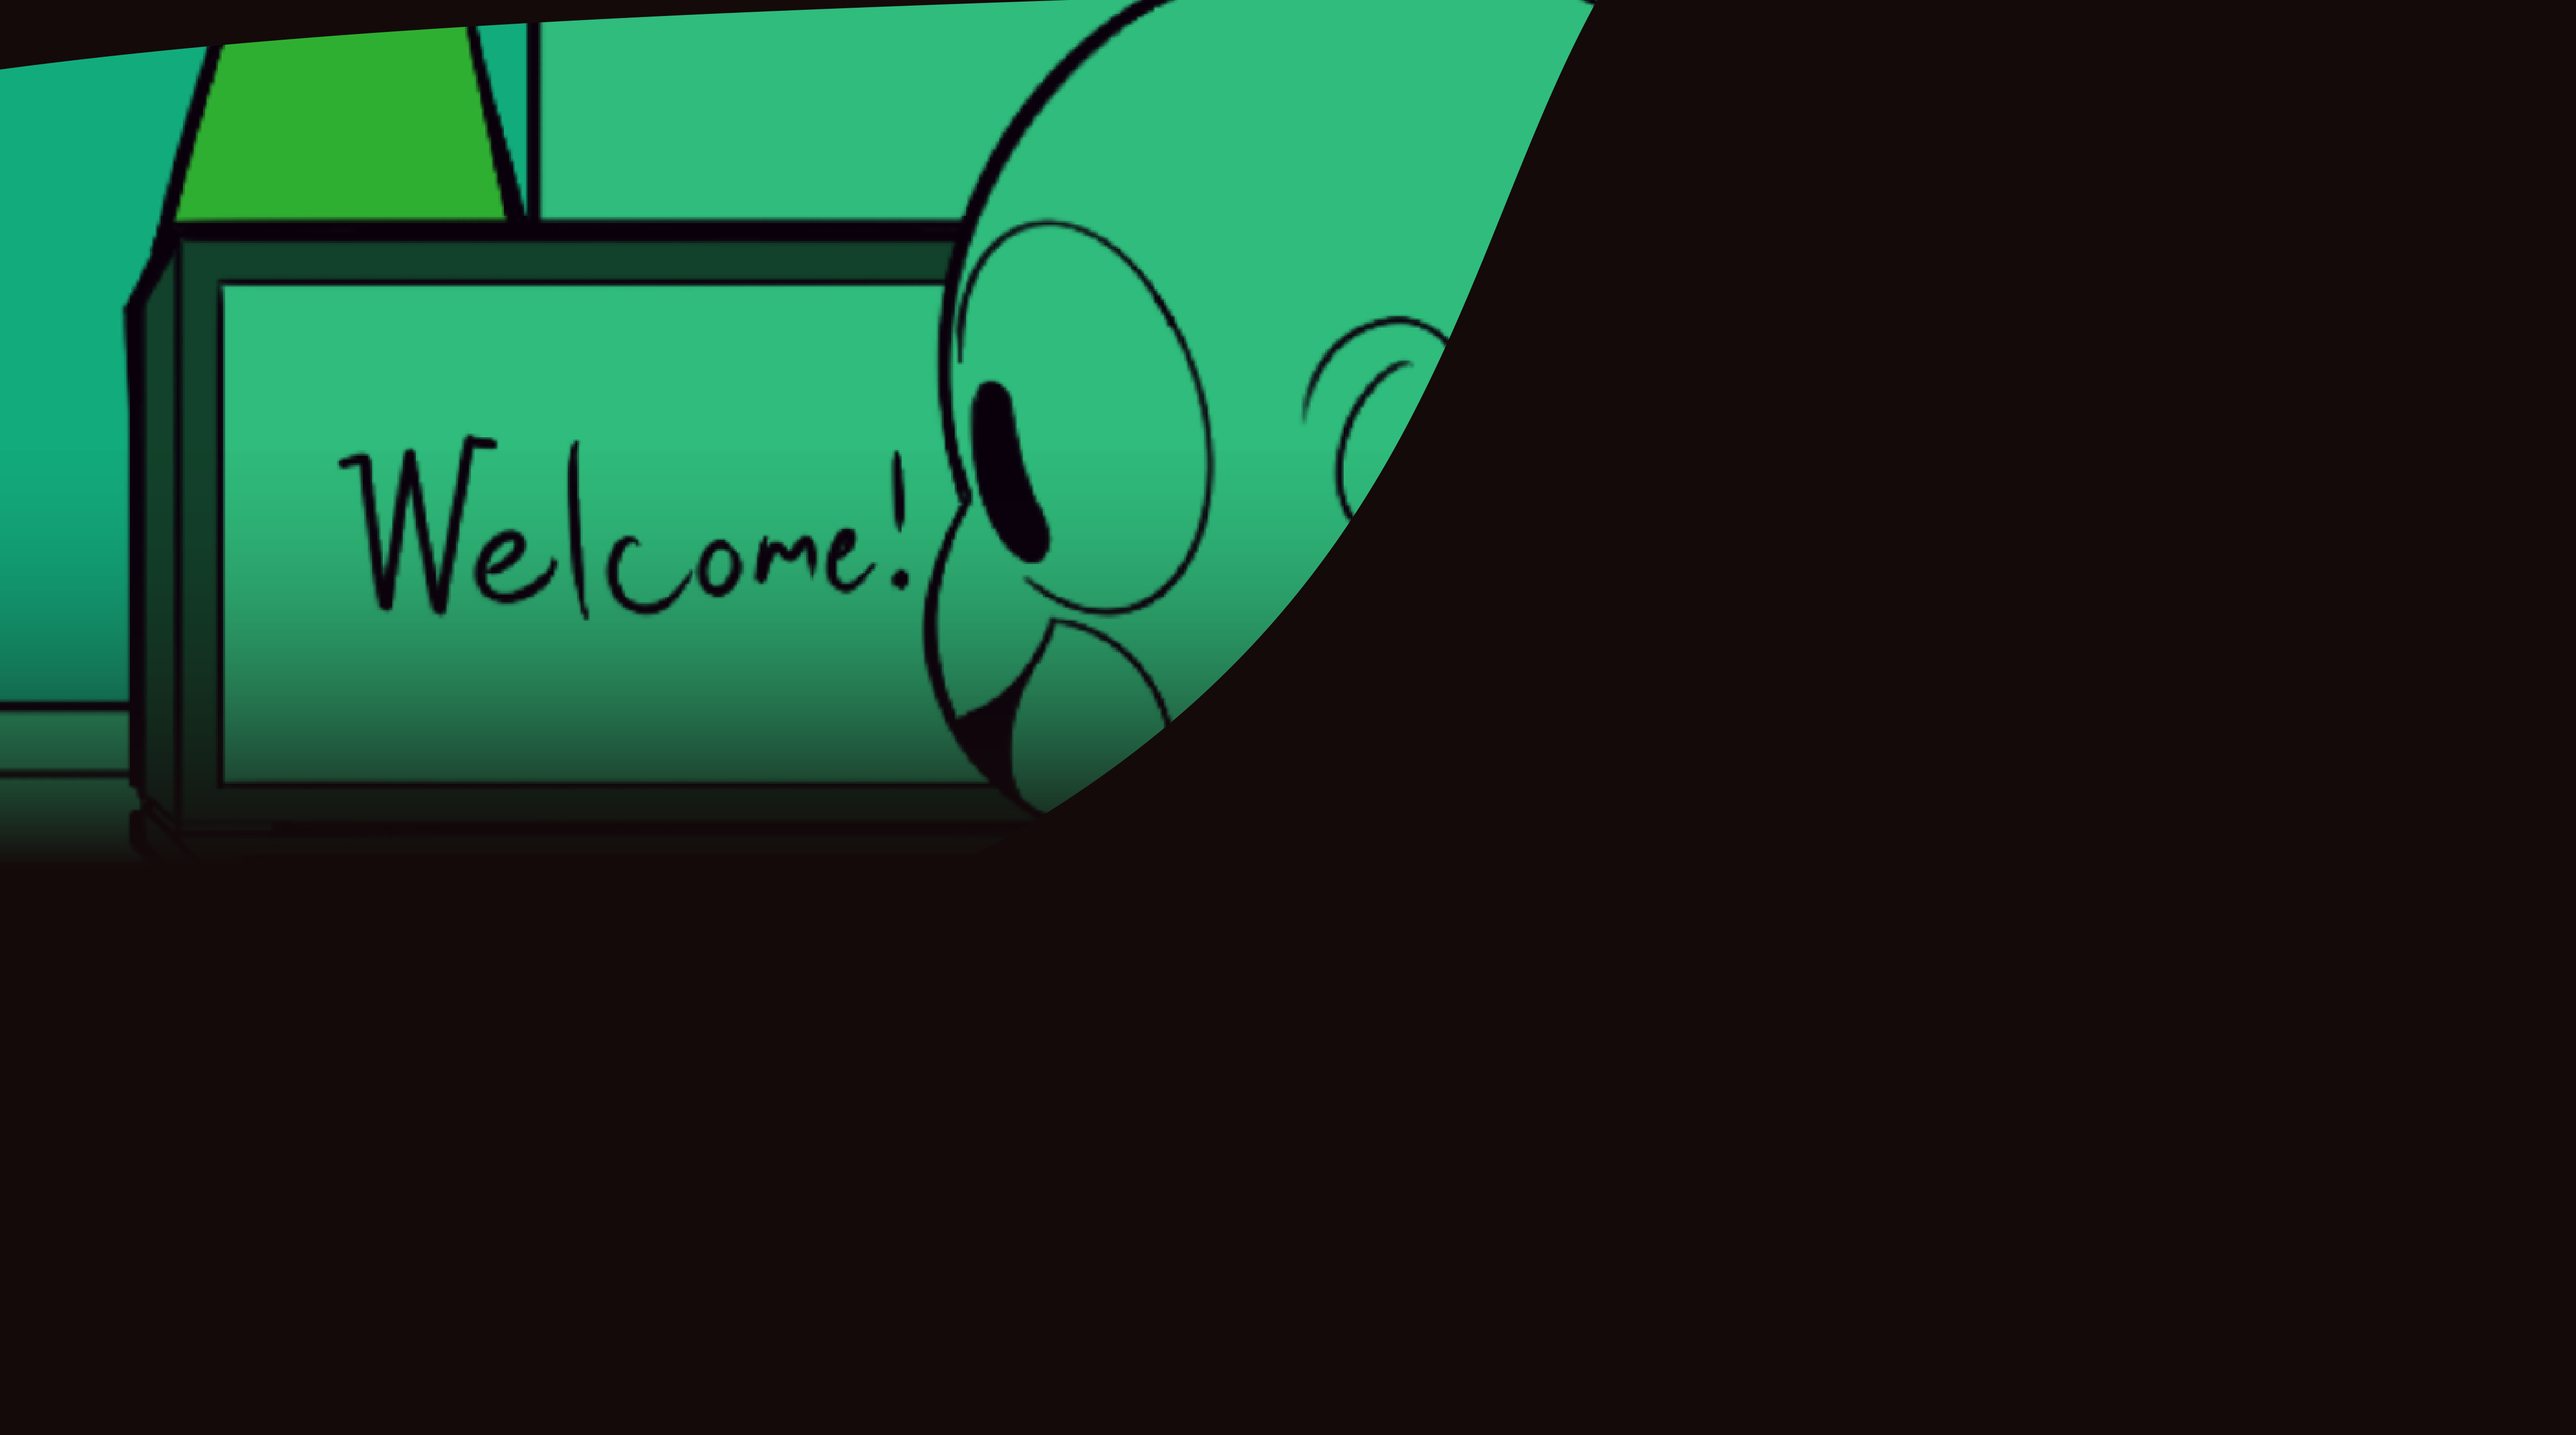
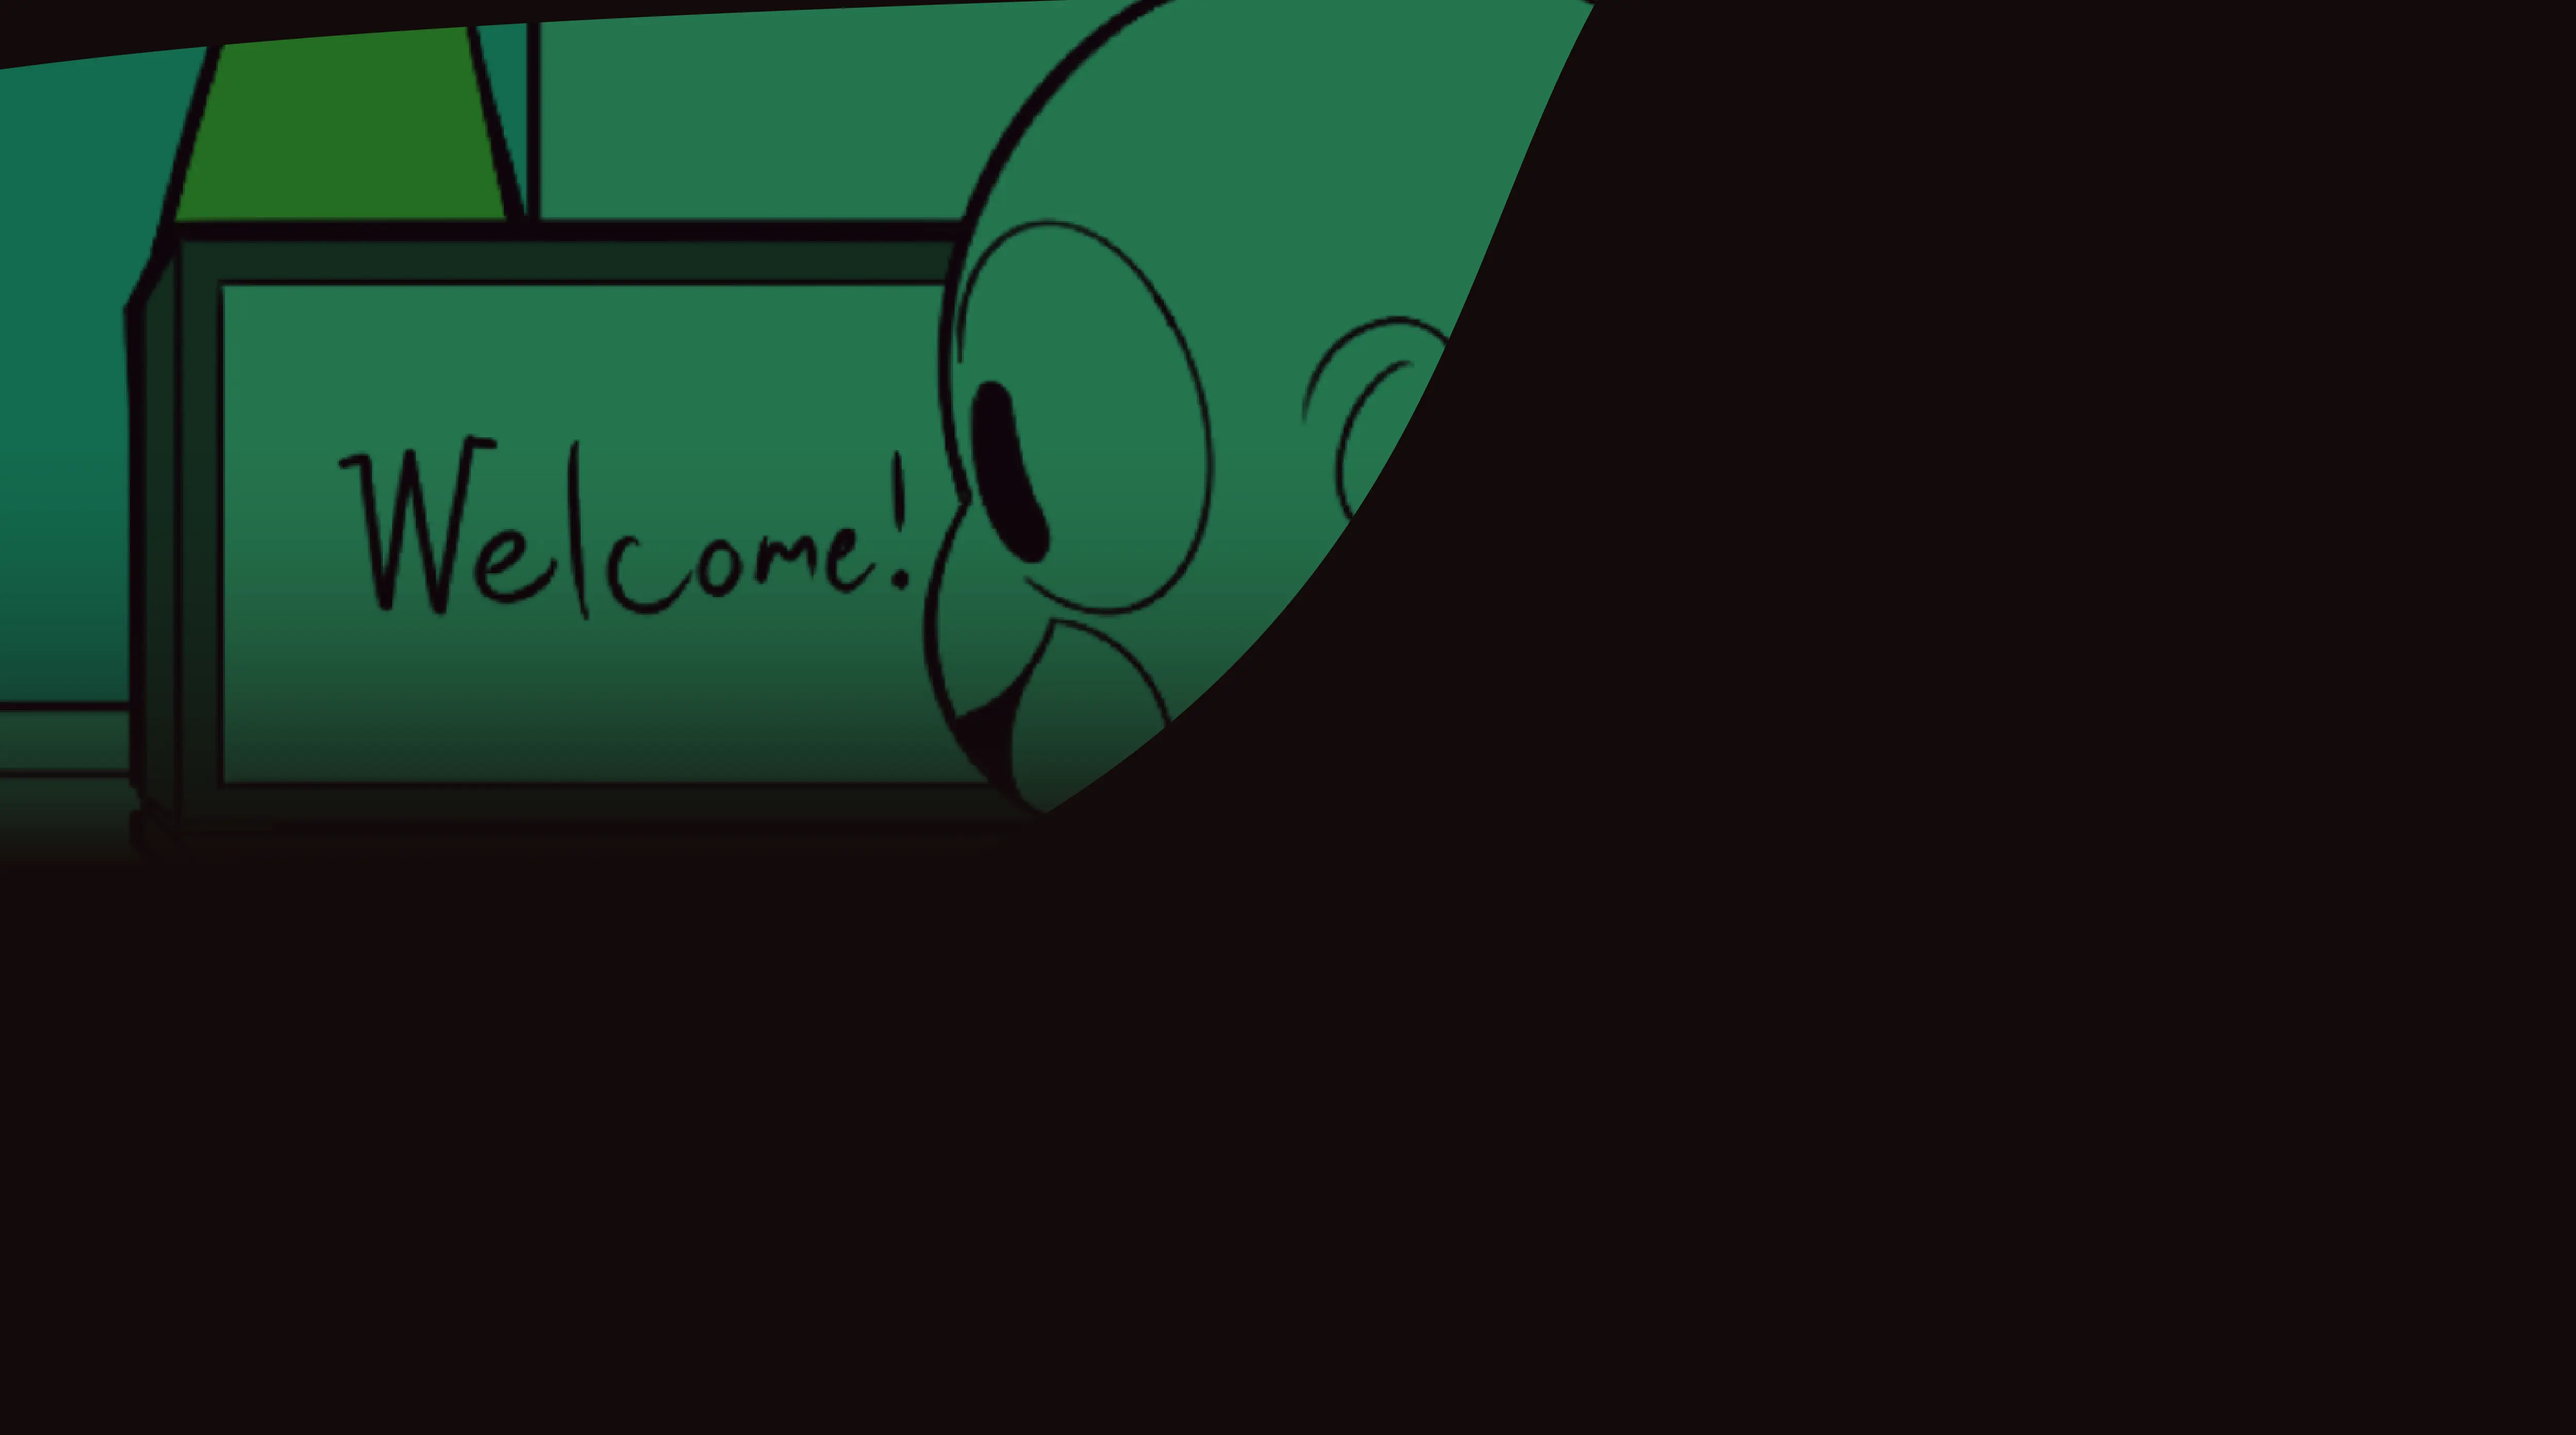
Add files via upload

Changed region(s): [[0.0, 0.0, 0.624, 0.5621]]

diff --git a/css/mystyle.css b/css/mystyle.css
@@ -301,13 +301,23 @@ Page-Specific Styles
 }
 
 .background1 {
-    background-image: url(../images/hero_section.webp);
-    background-repeat: no-repeat;
+    position: relative;
+    background-image: url("../images/hero_section.webp");
     background-size: cover;
+    background-position: center;
+    background-repeat: no-repeat;
+}
 
-    display: flex;
-    align-items: center;
-    justify-content: flex-end;
+.background1::before {
+    content: "";
+    position: absolute;
+    inset: 0;
+    background: rgba(20, 10, 10, 0.25); /* Adjust opacity here */
+}
+
+.background1 > * {
+    position: relative;
+    z-index: 1;
 }
 
 @media (max-width: 993px) {

diff --git a/index.html b/index.html
@@ -74,6 +74,7 @@
             </div>
     </header>
 
+    <div style="background-color: #140A0A;">
         <div class="background1">
             <section class="Hero-section">
                 <div class="container py-5" style="text-align: right;">
@@ -85,6 +86,7 @@
                 </div>
             </section>
         </div>
+    </div>
 
     <section class="About-section">
         <div class="container py-5">
